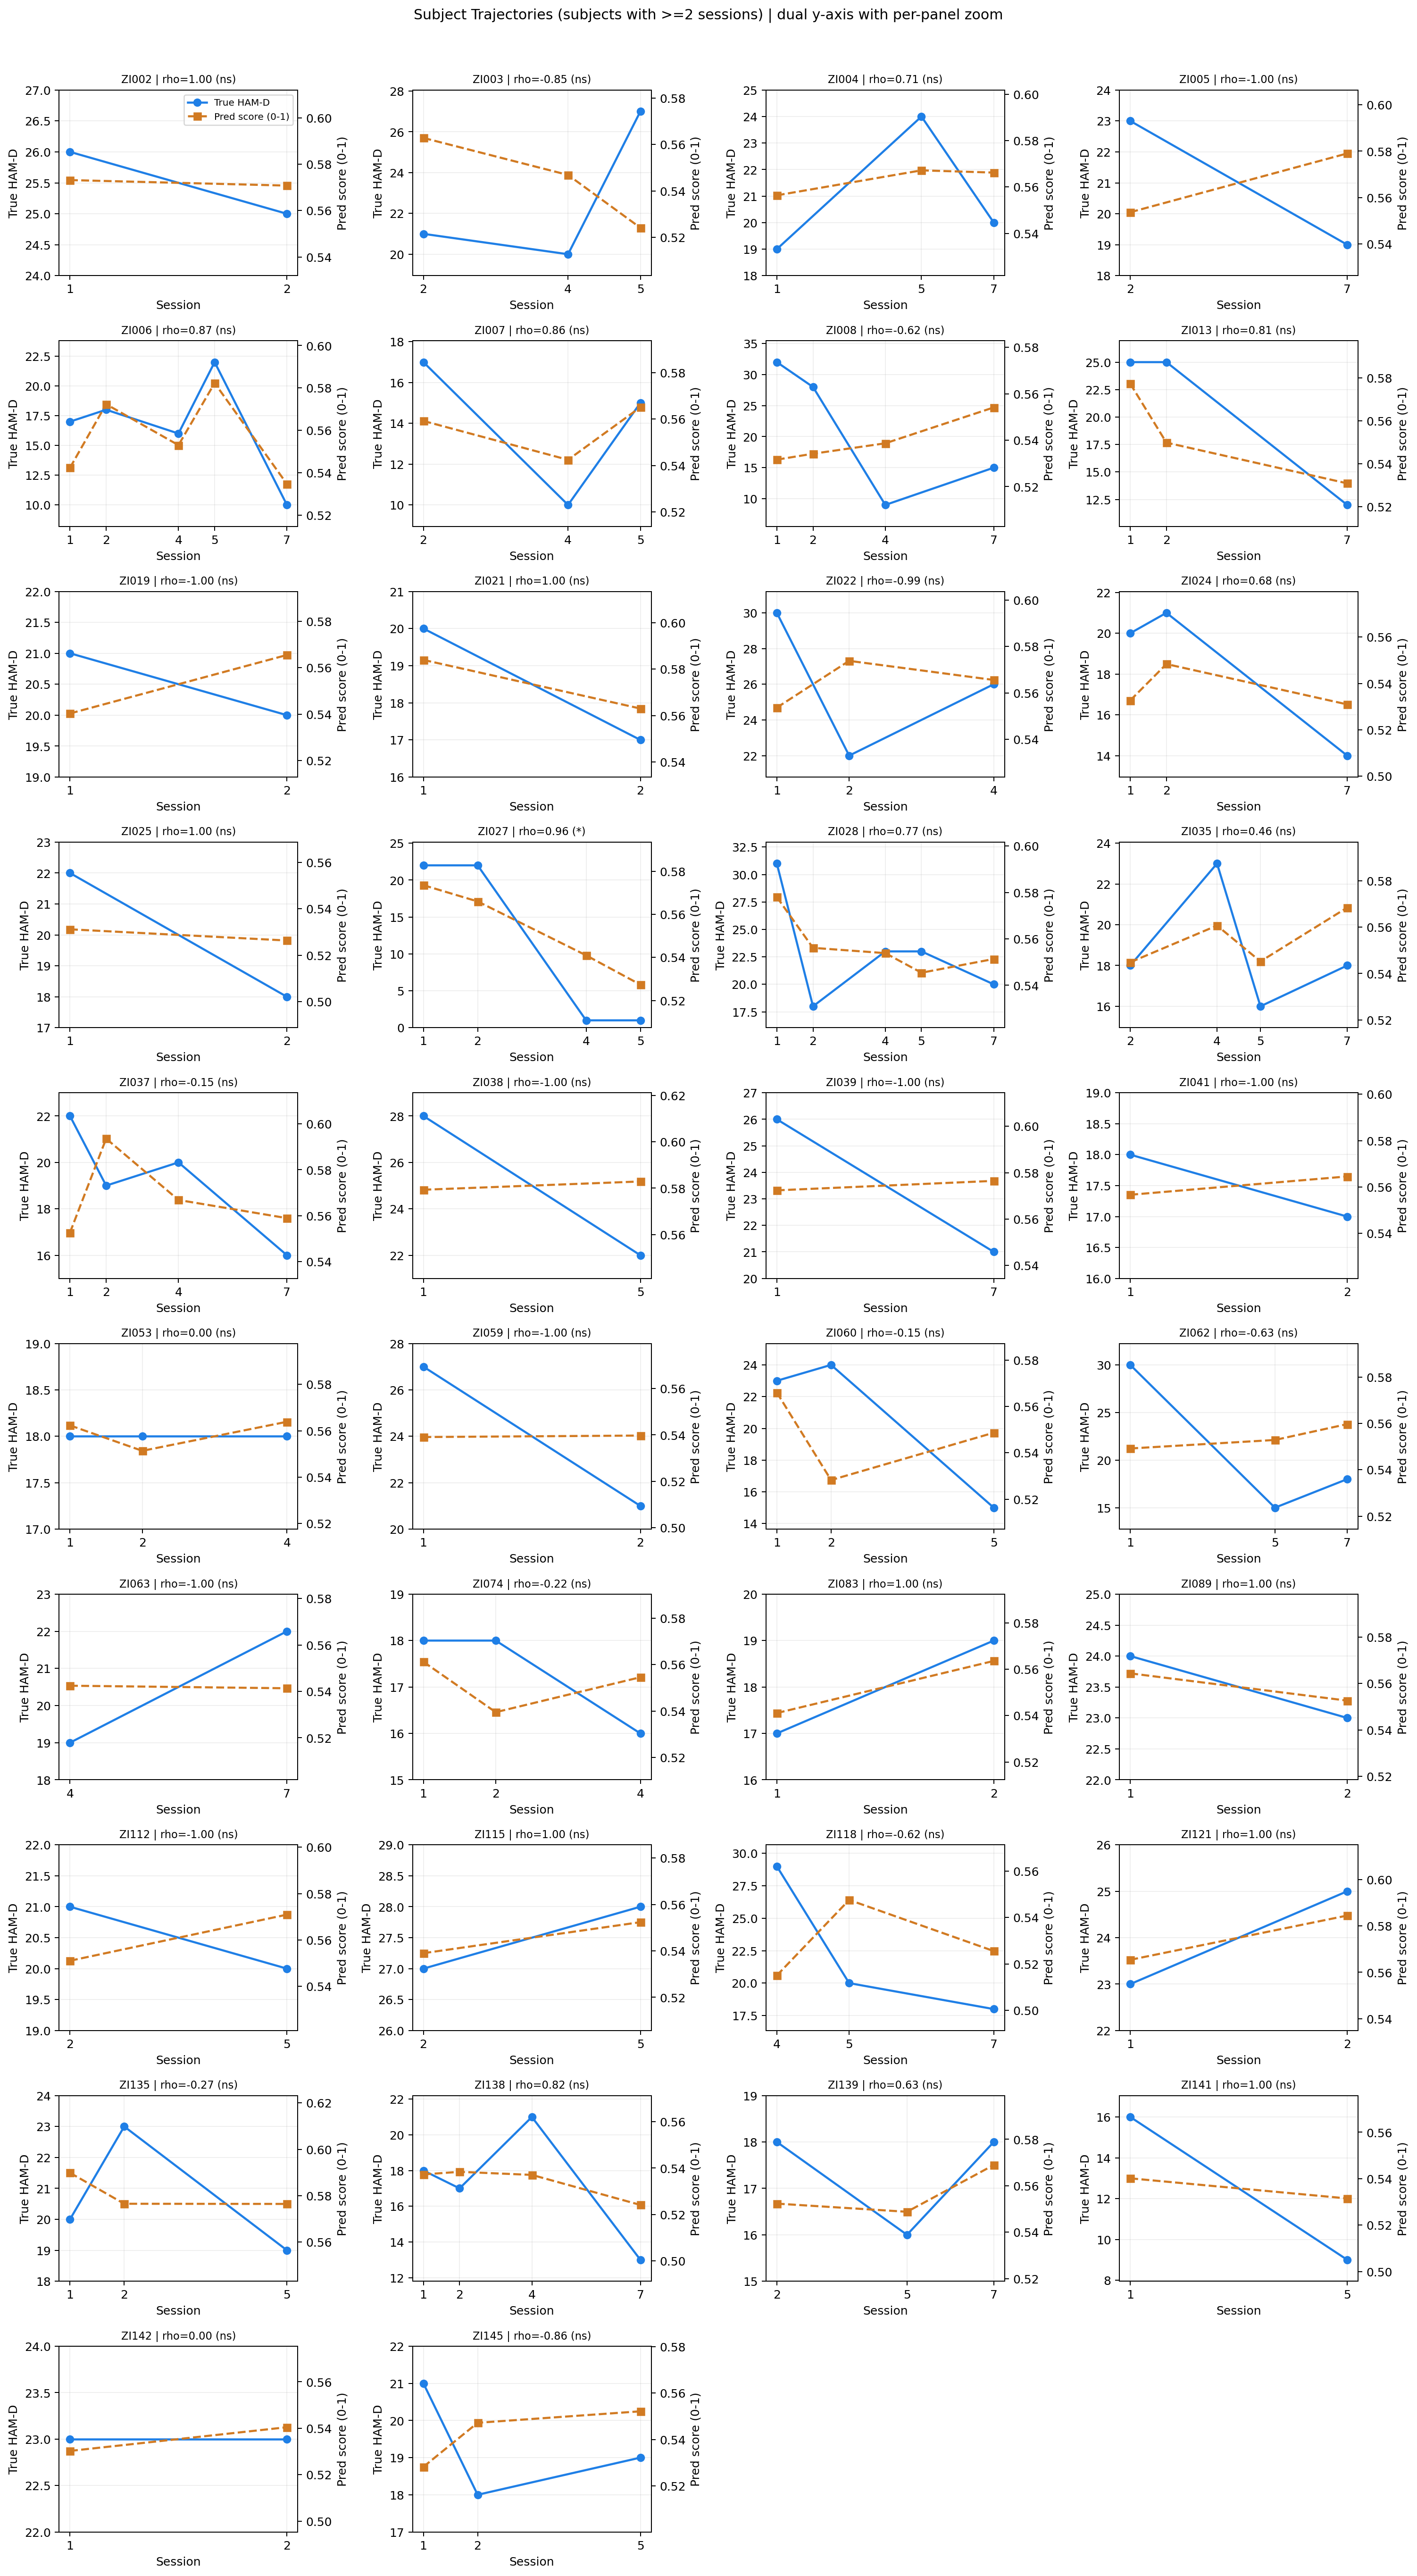
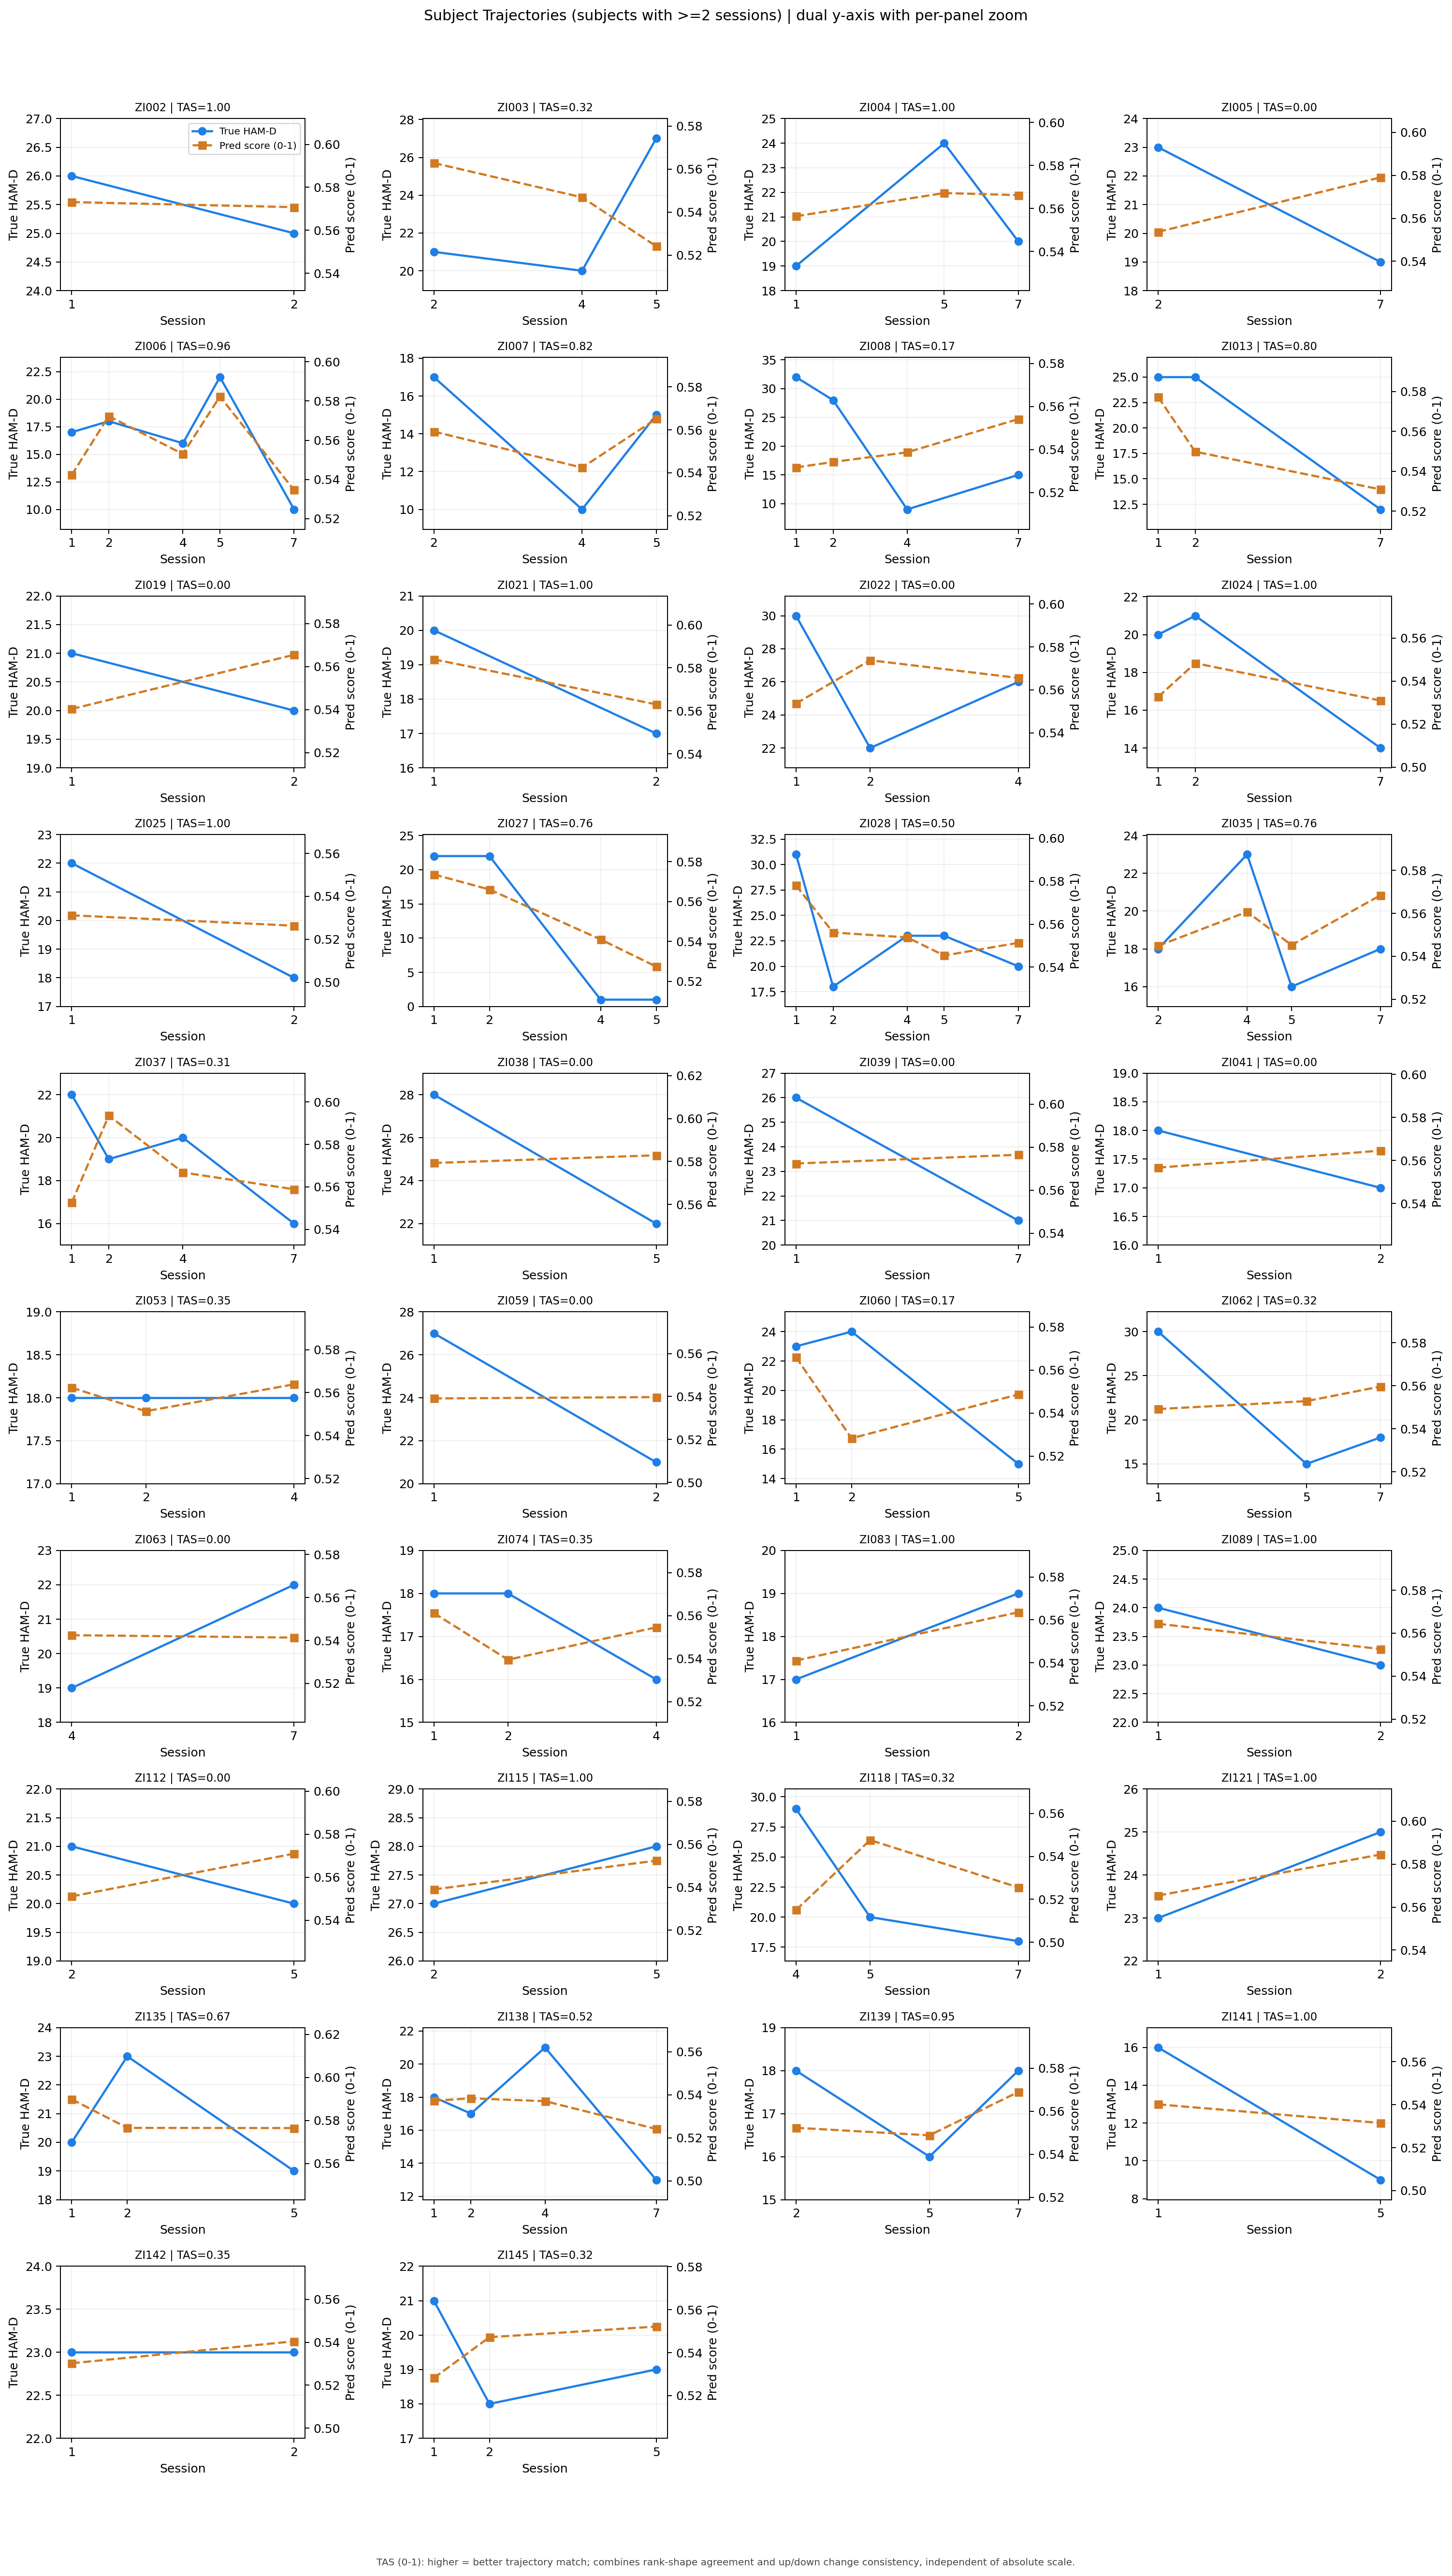
file changes

diff --git a/pipeline/Train.py b/pipeline/Train.py
@@ -11,7 +11,7 @@ from datasets import load_dataset, DatasetDict
 from transformers import AutoTokenizer, AutoModel, TrainingArguments, Trainer, DataCollatorForLanguageModeling, AutoModelForMaskedLM
 from sklearn.model_selection import train_test_split
 from sklearn.metrics import f1_score, confusion_matrix
-from scipy.stats import pearsonr
+from scipy.stats import pearsonr, spearmanr
 from safetensors.torch import load_file as load_safetensors
 
 # Reproducibility
@@ -31,12 +31,12 @@ if torch.cuda.is_available():
 
 
 # Data Loading
-TRAIN_FILE = "/zi/home/luke.bregulla/Desktop/data/data_daic_pdch_3class_texts.csv"
-TEST_FILE = "/zi/home/luke.bregulla/Desktop/data/data_epi_en_clean.csv"
+TRAIN_FILE = "/zi/home/luke.bregulla/Desktop/DSS/data/data_daic_pdch_3class_texts.csv"
+TEST_FILE = "/zi/home/luke.bregulla/Desktop/DSS/data/data_epi_en.csv"
 
-OUTPUT_DIR = "/zi/home/luke.bregulla/Desktop/predict_hamd/learning_results"
-LOGGING_DIR = "/zi/home/luke.bregulla/Desktop/predict_hamd/learning_results/logs"
-PERFORMANCE_DIR = "/zi/home/luke.bregulla/Desktop/predict_hamd/learning_results/performance_plots"
+OUTPUT_DIR = "/zi/home/luke.bregulla/Desktop/DSS/pipeline/learning_results"
+LOGGING_DIR = "/zi/home/luke.bregulla/Desktop/DSS/pipeline/learning_results/logs"
+PERFORMANCE_DIR = "/zi/home/luke.bregulla/Desktop/DSS/pipeline/learning_results/performance_plots"
 OVERALL_METRICS_CSV_PATH = os.path.join(OUTPUT_DIR, "epi_holdout_overall_metrics.csv")
 PER_SESSION_METRICS_CSV_PATH = os.path.join(OUTPUT_DIR, "epi_holdout_metrics_by_session.csv")
 BEST_MODEL_DIR = os.path.join(OUTPUT_DIR, "best_model")
@@ -44,7 +44,7 @@ BEST_MODEL_DIR = os.path.join(OUTPUT_DIR, "best_model")
 # Load tokenizer
 BASE_MODEL = "FacebookAI/xlm-roberta-base"
 tokenizer = AutoTokenizer.from_pretrained(BASE_MODEL)
-DOMAIN_ADAPTED_MODEL_DIR = "/zi/home/luke.bregulla/Desktop/predict_hamd/learning_results/domain_adapted_bert"
+DOMAIN_ADAPTED_MODEL_DIR = "/zi/home/luke.bregulla/Desktop/DSS/pipeline/learning_results/domain_adapted_bert"
 SAVE_PLOTS = True
 
 
@@ -776,6 +776,41 @@ def significance_stars(p_value):
     return "ns"
 
 
+def trajectory_agreement_metrics(y_pred_score, y_true):
+
+    y_pred_score = np.asarray(y_pred_score, dtype=float).reshape(-1)
+    y_true = np.asarray(y_true, dtype=float).reshape(-1)
+
+    if y_pred_score.size < 2 or y_true.size < 2:
+        return 0.5, 0.0, 0.5
+
+    # Spearman captures monotonic shape agreement and is invariant to scale.
+    if float(np.ptp(y_pred_score)) == 0.0 or float(np.ptp(y_true)) == 0.0:
+        spearman_rho = 0.0
+    else:
+        s_res = spearmanr(y_pred_score, y_true)
+        spearman_rho = float(s_res.statistic) if s_res is not None else np.nan
+    if np.isnan(spearman_rho):
+        spearman_rho = 0.0
+
+    # Direction agreement checks whether up/down changes match between sessions.
+    d_pred = np.diff(y_pred_score)
+    d_true = np.diff(y_true)
+    if d_pred.size == 0:
+        direction_acc = 0.5
+    else:
+        near_zero = 1e-12
+        pred_sign = np.where(np.abs(d_pred) <= near_zero, 0, np.sign(d_pred))
+        true_sign = np.where(np.abs(d_true) <= near_zero, 0, np.sign(d_true))
+        direction_acc = float(np.mean(pred_sign == true_sign))
+
+    # Weighted blend: rank-shape agreement + directional consistency.
+    tas = 0.7 * ((spearman_rho + 1.0) / 2.0) + 0.3 * direction_acc
+    tas = float(np.clip(tas, 0.0, 1.0))
+
+    return tas, spearman_rho, direction_acc
+
+
 def save_session_grouped_epi_scatter(x_values, y_values, groups, output_path, title, x_label):
     unique_groups = sorted(set(groups))
     cmap = plt.get_cmap("tab10", max(len(unique_groups), 1))
@@ -957,20 +992,8 @@ def save_subject_trajectory_grid(session_ids, pred_scores, hamd_values, output_p
         ax2 = ax.twinx()
         ax2.plot(x, y_pred_score, marker="s", color="#D17A22", linestyle="--", linewidth=1.8, label="Pred score (0-1)")
 
-        # Pearson is undefined if one side is constant; keep the plot and report neutral stats.
-        if float(np.ptp(y_pred_score)) == 0.0 or float(np.ptp(y_true)) == 0.0:
-            rho = 0.0
-            p_val = 1.0
-        else:
-            rho_res = pearsonr(y_pred_score, y_true)
-            rho = float(rho_res.statistic) if rho_res is not None else np.nan
-            p_val = float(rho_res.pvalue) if rho_res is not None else np.nan
-        if np.isnan(rho):
-            rho = 0.0
-        if np.isnan(p_val):
-            p_val = 1.0
-        stars = significance_stars(p_val)
-        ax.set_title(f"{subj} | rho={rho:.2f} ({stars})", fontsize=9)
+        tas, _, _ = trajectory_agreement_metrics(y_pred_score, y_true)
+        ax.set_title(f"{subj} | TAS={tas:.2f}", fontsize=9)
         ax.set_xticks(x.tolist())
         ax.set_xlabel("Session")
         ax.set_ylabel("True HAM-D")
@@ -1009,8 +1032,17 @@ def save_subject_trajectory_grid(session_ids, pred_scores, hamd_values, output_p
         r, c = divmod(j, ncols)
         axes[r][c].axis("off")
 
-    fig.suptitle("Subject Trajectories (subjects with >=2 sessions) | dual y-axis with per-panel zoom", y=1.01)
-    fig.tight_layout()
+    fig.suptitle("Subject Trajectories (subjects with >=2 sessions) | dual y-axis with per-panel zoom", y=0.99)
+    fig.text(
+        0.5,
+        0.01,
+        "TAS (0-1): higher = better trajectory match; combines rank-shape agreement and up/down change consistency, independent of absolute scale.",
+        ha="center",
+        va="bottom",
+        fontsize=8,
+        color="#444444",
+    )
+    fig.tight_layout(rect=[0, 0.04, 1, 0.97])
     fig.savefig(output_path, dpi=180, bbox_inches="tight")
     plt.close(fig)
 